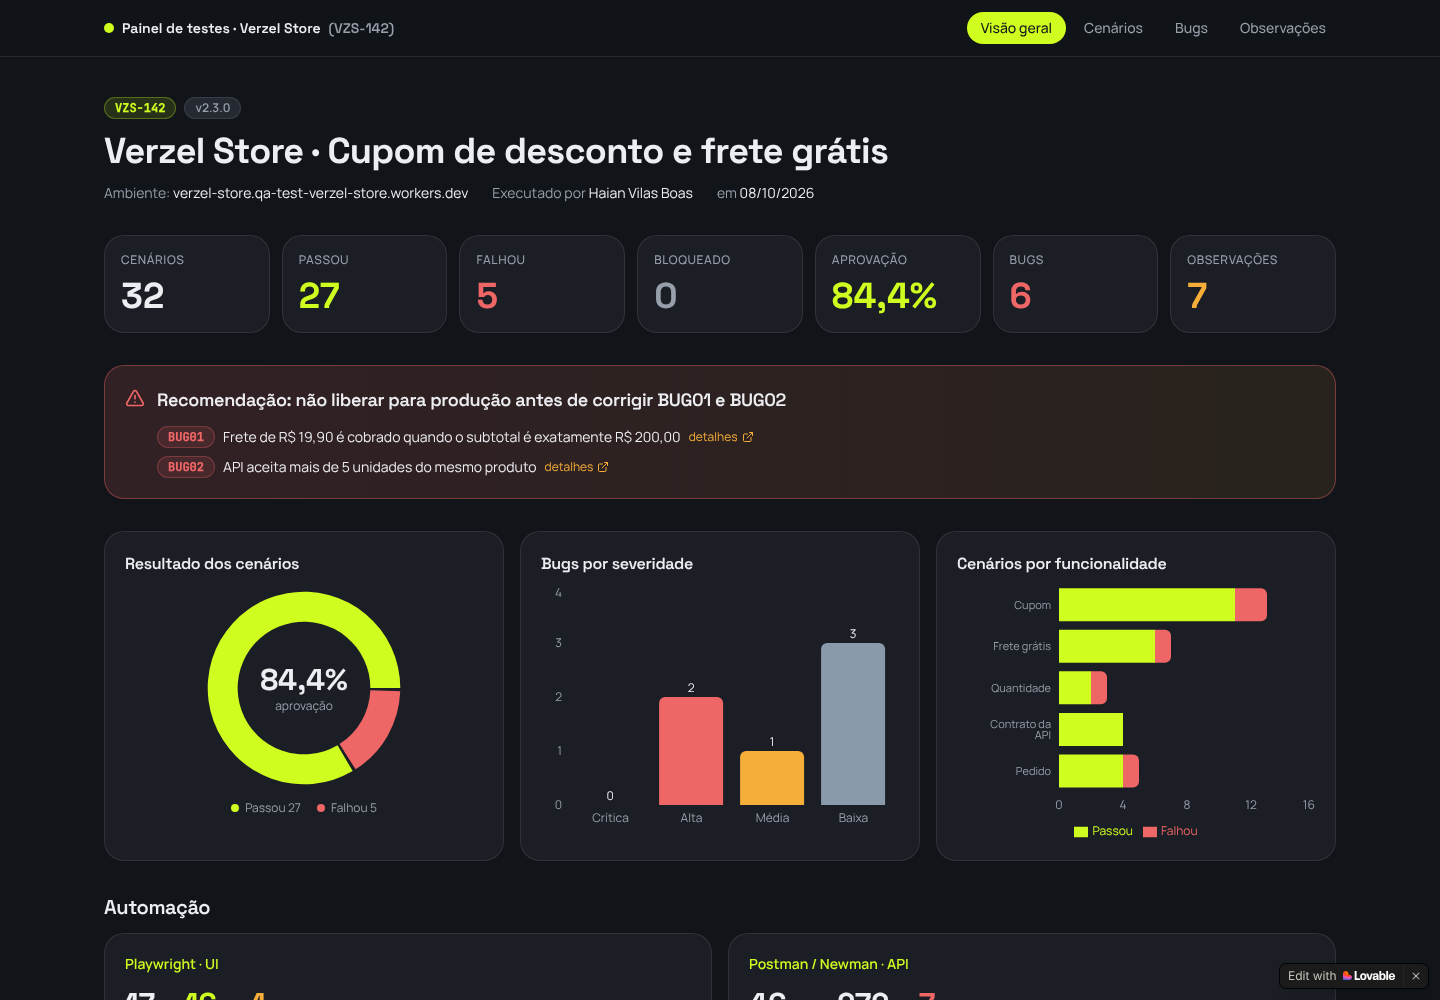
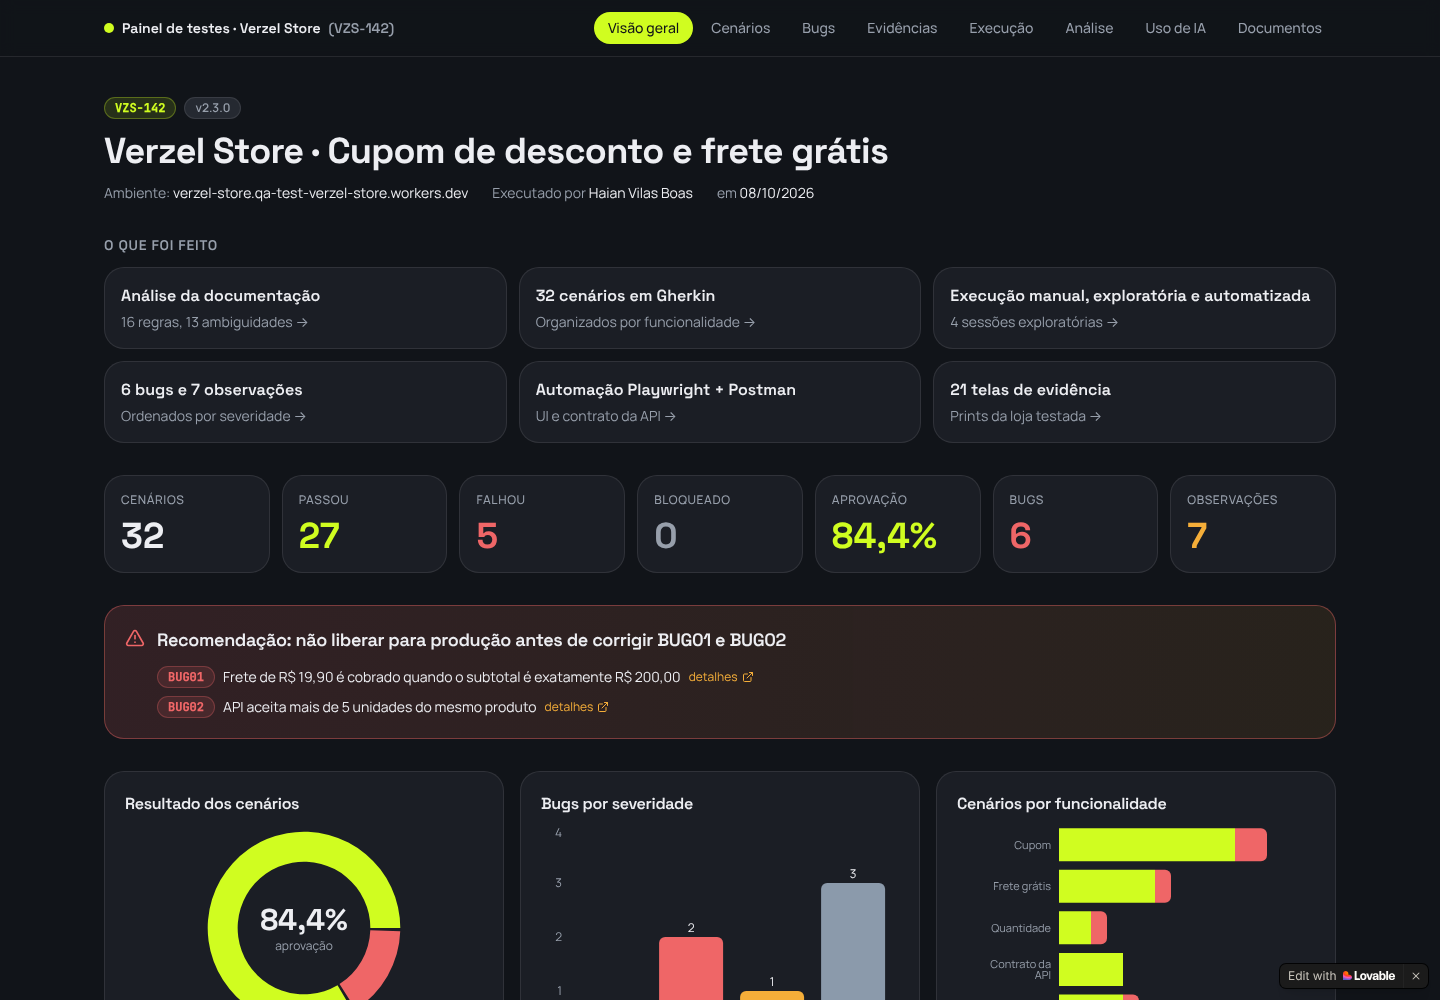
Atualiza README e imagem do painel com as novas abas
Claude-Session: https://claude.ai/code/session_01FJ6e4gsjNDF2Fn2iHyc37Z

diff --git a/README.md b/README.md
@@ -17,9 +17,11 @@ Validação da entrega **VZS-142 · cupom de desconto + frete grátis** da Verze
 **Todas as informações deste teste estão no painel**, em uma só tela e sem precisar abrir arquivo por arquivo:
 
 - **Visão geral:** números da execução, taxa de aprovação, recomendação de liberação e gráficos por resultado, severidade e funcionalidade.
-- **Cenários:** os 32 cenários com resultado, regra coberta, camada (UI/API), tipo de execução, filtros e as evidências de cada um.
-- **Bugs:** os 6 bugs por severidade, com a regra violada, os prints e o link para o report completo.
-- **Observações:** os 7 pontos que não são bugs, mas merecem conversa com o time.
+- **Cenários:** os 32 cenários em abas por funcionalidade, com o Gherkin de cada um, resultado, regra coberta, camada (UI/API), tipo de execução e evidências.
+- **Bugs:** os 6 bugs por severidade, com a regra violada, os prints e o link para o report completo, além das 7 observações.
+- **Evidências:** galeria com as 21 telas da loja capturadas durante os testes.
+- **Execução, Análise e Uso de IA:** sessões exploratórias, tela × API, regras, ambiguidades e onde a IA foi usada.
+- **Documentos:** todos os documentos do repositório, renderizados dentro do painel.
 - **Automação:** resultados do Playwright (interface) e do Postman/Newman (API).
 
 [![Painel de resultados dos testes](docs/painel.png)](https://verzel-store-qa-painel.lovable.app)
